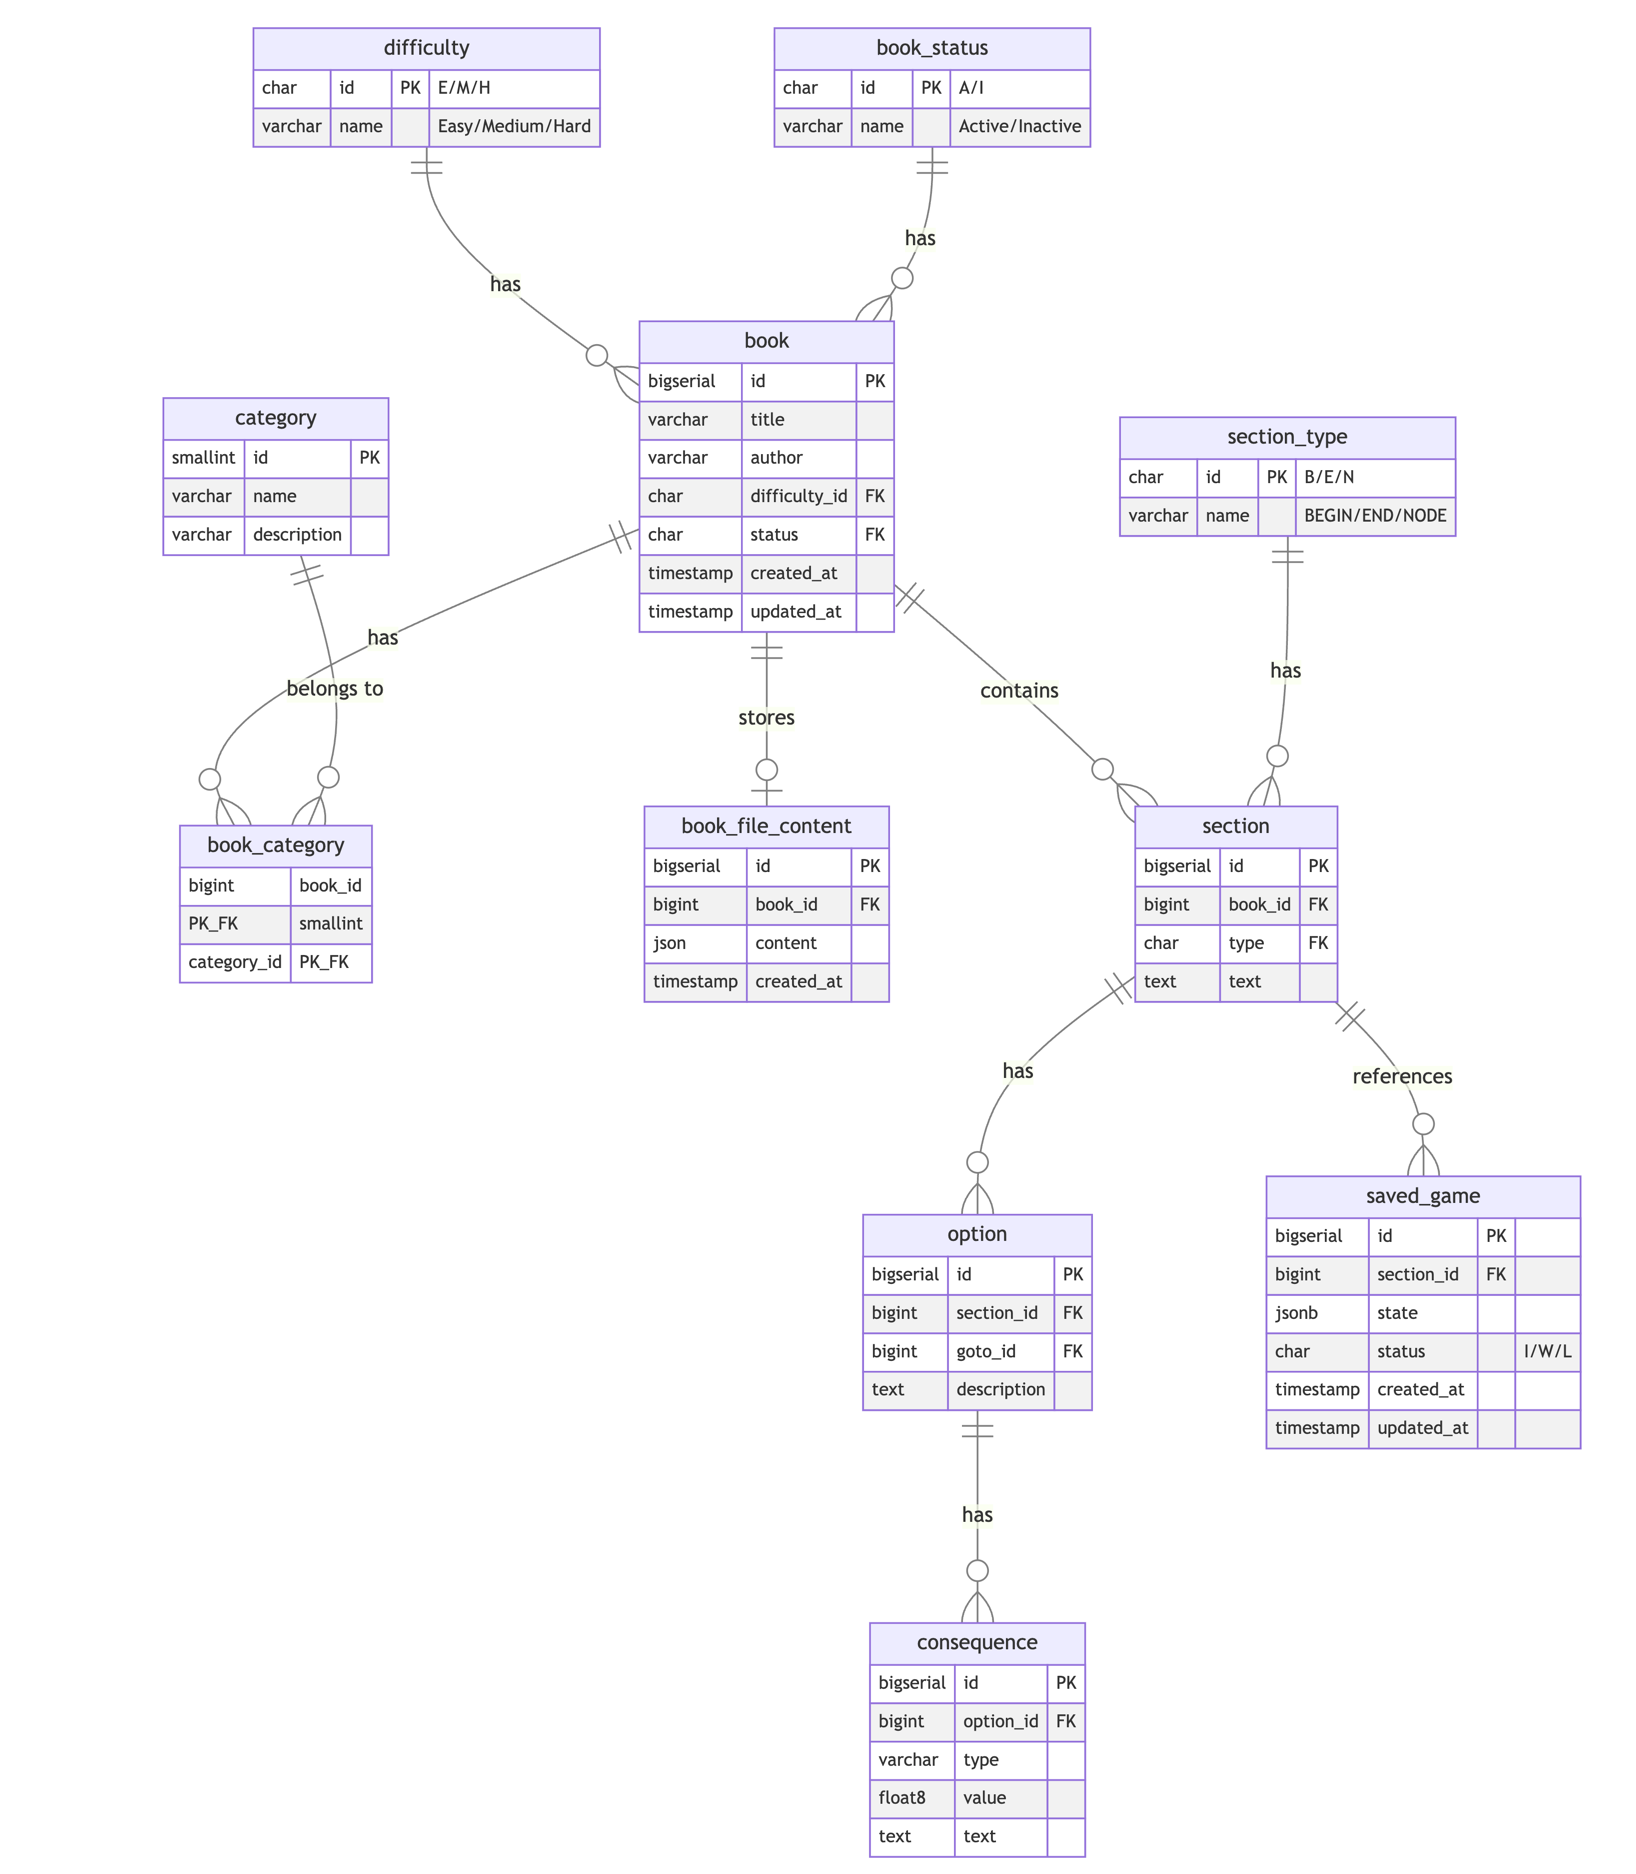
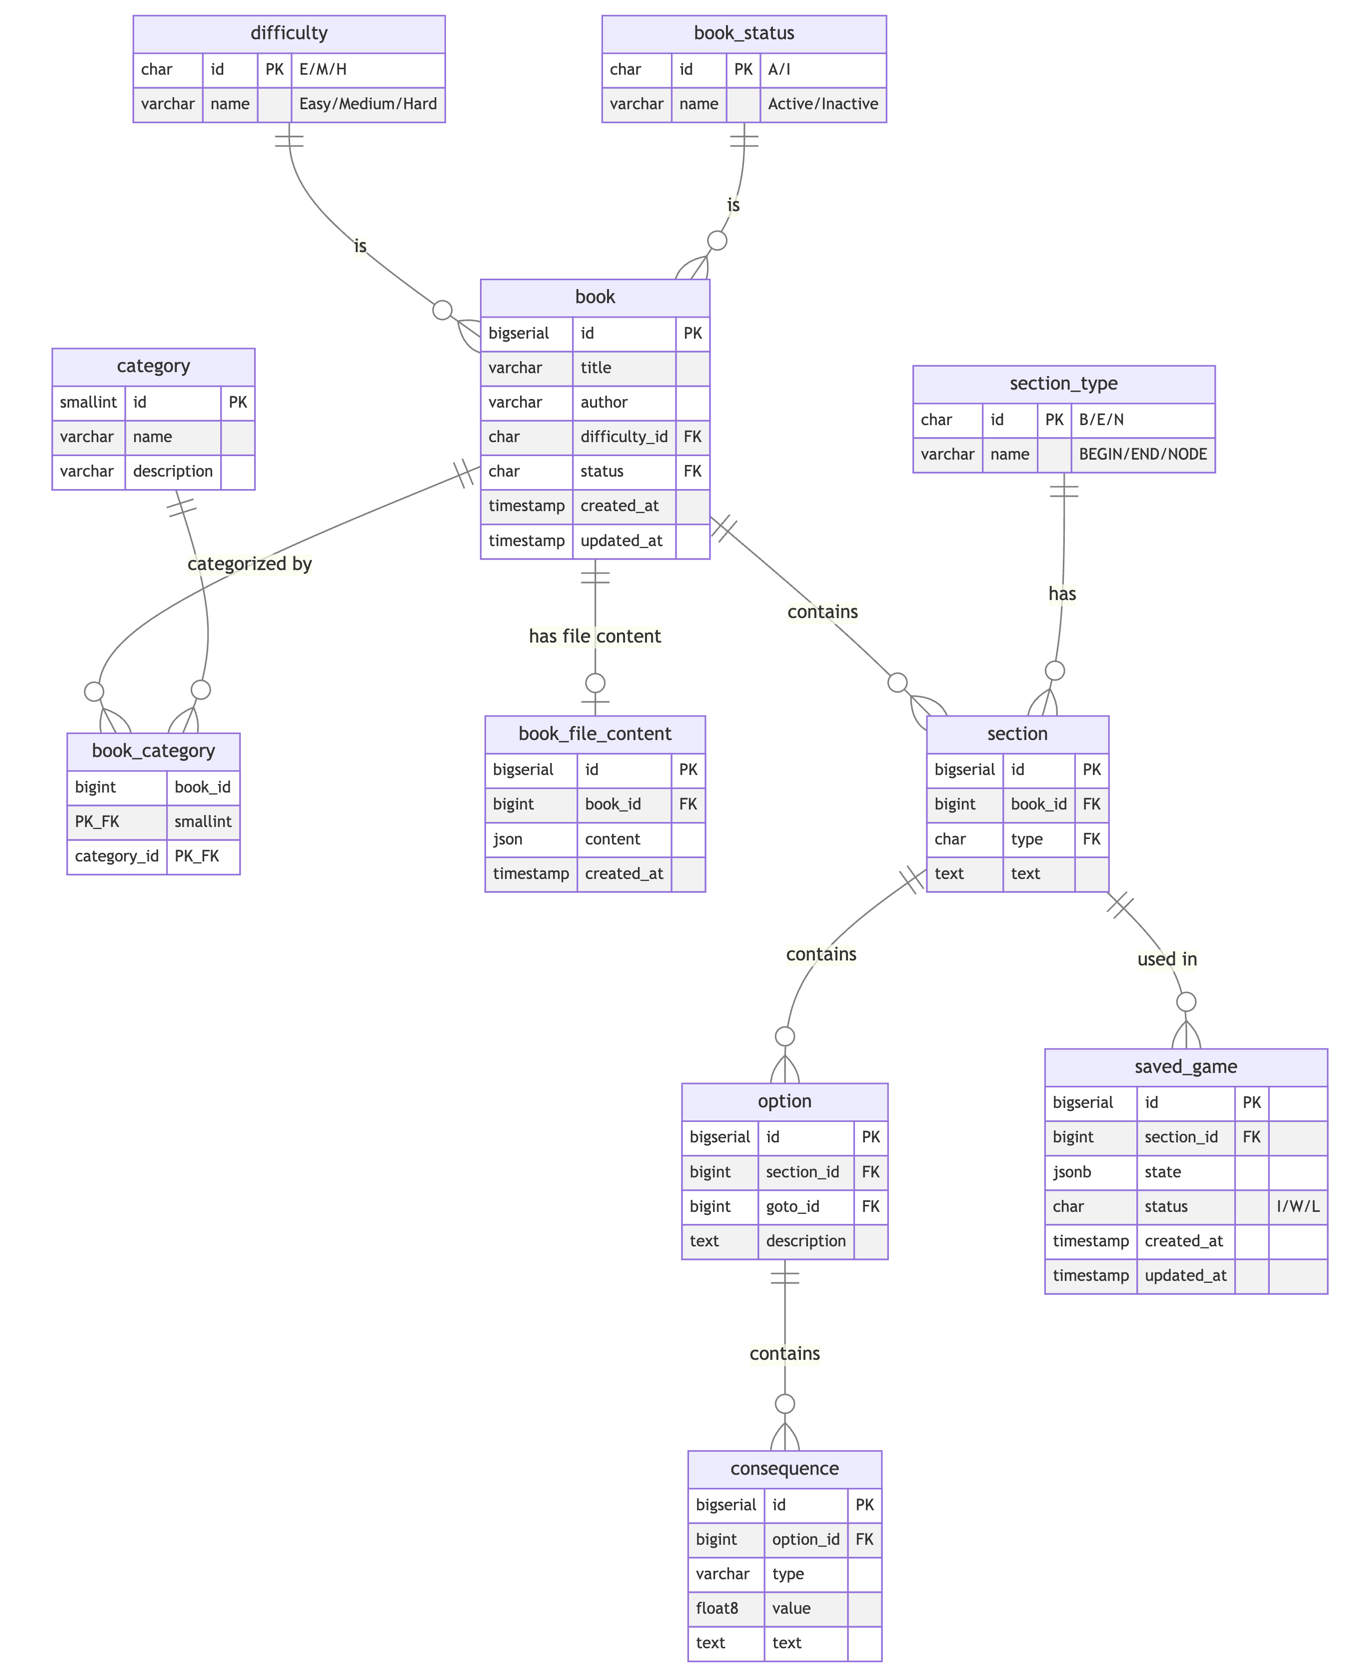
docs: update README

diff --git a/README.md b/README.md
@@ -5,79 +5,84 @@ Interactive adventure book platform with JSON-based book import, session managem
 ## Overview
 
 Adventure Book is a multi-module Spring Boot application that enables users to read and play through interactive adventure books.
-The system supports importing books from JSON files, managing game sessions with temporary and persistent storage, and tracking player progression through branching narratives.
+The system supports:
+ - Importing books from JSON files.
+ - Searcing for books by title, author, difficulty, and category.
+ - Editing book categories.
+ - Managing game sessions with temporary and persistent storage,
+ - Navigating through sections by choosing options, and applies consequences based on player choices.
 
 ## Modules
 
 ### Common
 Shared utilities and domain abstractions used across all modules.
 
-- **Result Pattern**: Type-safe error handling with `Result<T>`, `Success<T>`, and `Failure` types
-- **Domain Types**: Base value objects (`Value`, `ComparableValue`) for domain-driven design
-- **Error Handling**: Standardized error codes and types (`ErrorCode`, `ErrorType`, `AppError`)
+- **Result Pattern**: Type-safe error handling with `Result<T>`, `Success<T>`, and `Failure` types.
+- **Error Handling**: Standardized error codes and types (`ErrorCode`, `ErrorType`, `AppError`).
+- **Domain Types**: Base value objects (`Value`, `ComparableValue`) for domain-driven design.
 
 ### Books
 Multi-module service for managing adventure books and their metadata.
 
-- **books-domain**: Domain models (Book, Category, Difficulty, Author)
-- **books-persistence-api**: Repository interfaces for data access abstraction
-- **books-persistence**: PostgreSQL implementation with Spring Data JDBC, full-text search, and Flyway migrations
-- **books-svc-api**: Service interface for book operations
-- **books-svc**: Business logic implementation
-- **books-web**: REST API with OpenAPI specification, Swagger UI, and controllers for book browsing and admin operations
+- **books-domain**: Domain models (Book, Category, Difficulty, Author, Title, and BookStatus).
+- **books-persistence-api**: Repository interfaces for data access abstraction.
+- **books-persistence**: PostgreSQL implementation with Spring Data JDBC, full-text search, and Flyway migrations.
+- **books-svc-api**: Service interface for book operations.
+- **books-svc**: Business logic implementation.
+- **books-web**: REST API with OpenAPI specification, Swagger UI, and controllers for books details, searching and admin operations.
 
 #### API Endpoints
-- `GET /books` - Search books
-- `GET /books/{bookId}` - Retrieve a specific book by ID
 - `POST /api/v1/books` - Create a new book
-- `GET /books/{bookId}/categories` - Get categories for a book by ID
-- `POST /books/{bookId}/categories` - Add categories to a book by ID
-- `DELETE /books/{bookId}/categories/{categoryId}` - Delete a category from a book by ID
+- `GET /api/v1/books` - Search books by title, author, difficulty, and category, with pagination.
+- `GET /api/v1/books/{bookId}` - Retrieve a specific book by ID
+- `GET /api/v1/books/{bookId}/categories` - Get categories for a book by ID
+- `POST /api/v1/books/{bookId}/categories` - Add categories to a book by ID
+- `DELETE /api/v1/books/{bookId}/categories/{categoryId}` - Delete a category from a book by ID
 
 Swagger UI is available at: http://localhost:8080/swagger-ui/index.html
 
 ### Game
 Multi-module service for managing game sessions, reading books, and handling player progression.
 
-- **game-domain**: Domain models (Session, Section, Option, Consequence, PlayerStats, SectionType)
-- **game-persistence-api**: Repository interfaces for session and saved game storage
+- **game-domain**: Domain models (Session, Section, Option, Consequence, SessionState, SectionType, and GameStatus).
+- **game-persistence-api**: Repository interfaces for session and saved game storage.
 - **game-persistence**: Dual storage implementation:
-  - **Redis**: Temporary session storage with 24-hour TTL for active gameplay
-  - **PostgreSQL**: Persistent saved game storage with Spring Data JDBC and Flyway migrations
-- **game-svc**: Business logic for game flow, section navigation, and consequence handling
-- **game-web**: REST API with OpenAPI specification for starting games, choosing options, and saving progress
+  - **Redis**: Temporary session storage with 24-hour TTL for active gameplay.
+  - **PostgreSQL**: Persistent saved game storage with Spring Data JDBC and Flyway migrations.
+- **game-svc**: Business logic for game flow, section navigation, and consequence handling.
+- **game-web**: REST API with OpenAPI specification for starting games, choosing options, and saving progress.
 
 #### Features
-- **Start Game**: Begin reading a book from its BEGIN section
-- **Navigate Sections**: Choose options to jump between sections
-- **Consequence System**: Automatic application of consequences (LOSE_HEALTH, GAIN_HEALTH) based on player choices
-- **Dual Storage**: Active sessions stored in Redis for performance, with manual save to PostgreSQL for persistence
-- **Health Tracking**: Player health is tracked and updated throughout gameplay
+- **Start Game**: Start reading a book from its BEGIN section.
+- **Navigate Sections**: Choose options to jump between sections.
+- **Consequence System**: Automatic application of consequences (LOSE_HEALTH, GAIN_HEALTH) based on player choices.
+- **Dual Storage**: Active sessions stored in Redis for performance, with manual save to PostgreSQL for persistence.
+- **Health Tracking**: Player health is tracked and updated throughout gameplay.
 
 #### API Endpoints
-- `POST /api/v1/game/start` - Start a new game session
-- `POST /api/v1/game/{sessionId}/choose` - Choose an option and move to the next section
-- `POST /api/v1/game/{sessionId}/save` - Save the current game session to persistent storage
+- `POST /api/v1/game/start` - Start a new game session.
+- `POST /api/v1/game/{sessionId}/choose` - Choose an option and move to the next section.
+- `POST /api/v1/game/{sessionId}/save` - Save the current game session to persistent storage.
 
 Swagger UI is available at: http://localhost:8081/swagger-ui/index.html
 
 
 #### Storage Architecture
-- **Redis** (localhost:6379): Stores temporary sessions during active gameplay with 24-hour expiration
-- **PostgreSQL** (localhost:5432): Stores permanently saved games via the `/save` endpoint
+- **Redis** (localhost:6379): Stores temporary sessions during active gameplay with 24-hour expiration.
+- **PostgreSQL** (localhost:5432): Stores permanently saved games via the `/save` endpoint.
 
 ### File Importer
 Batch processing module for importing adventure books from JSON files into the database.
 
-- **Spring Batch Integration**: Multi-step job for book import with validation, insertion, and activation phases
-- **JSON Import**: Reads book definitions from JSON files in the `books-examples/` directory
-- **Validation**: Validates book structure, sections, options, and consequences before import
+- **Spring Batch Integration**: Multi-step job for book import with validation, insertion, and activation phases.
+- **JSON Import**: Reads book definitions from JSON files in the `books-examples/` directory.
+- **Validation**: Validates book structure, sections, options, and consequences before import.
 - **Batch Steps**:
-  1. **Validation**: Verifies JSON structure and data integrity
-  2. **Book Insertion**: Creates book records in the database
-  3. **Section Insertion**: Imports all sections with their metadata
-  4. **Options Insertion**: Imports choices and consequences
-  5. **Book Activation**: Marks books as available for gameplay
+  1. **Validation**: Verifies JSON structure and data integrity.
+  2. **Book Insertion**: Creates book record in the database (with INACTIVE status).
+  3. **Section Insertion**: Imports all sections with their metadata.
+  4. **Options Insertion**: Imports choices and consequences.
+  5. **Book Activation**: Marks books as available for gameplay (ACTIVE status).
 
 #### Example Books
 - `books-examples/crystal-caverns.json`
@@ -100,18 +105,18 @@ Run with: `docker compose up`
 ```mermaid
 erDiagram
     %% Books Module
-    difficulty ||--o{ book : "has"
-    book ||--o{ book_category : "has"
-    category ||--o{ book_category : "belongs to"
-    book ||--o| book_file_content : "stores"
-    book_status ||--o{ book : "has"
+    difficulty ||--o{ book : "is"
+    book ||--o{ book_category : "categorized by"
+    category ||--o{ book_category : ""
+    book ||--o| book_file_content : "has file content"
+    book_status ||--o{ book : "is"
     book ||--o{ section : "contains"
 
     %% Game Module
     section_type ||--o{ section : "has"
-    section ||--o{ option : "has"
-    option ||--o{ consequence : "has"
-    section ||--o{ saved_game : "references"
+    section ||--o{ option : "contains"
+    option ||--o{ consequence : "contains"
+    section ||--o{ saved_game : "used in"
 
     %% Difficulty Catalog
     difficulty {
